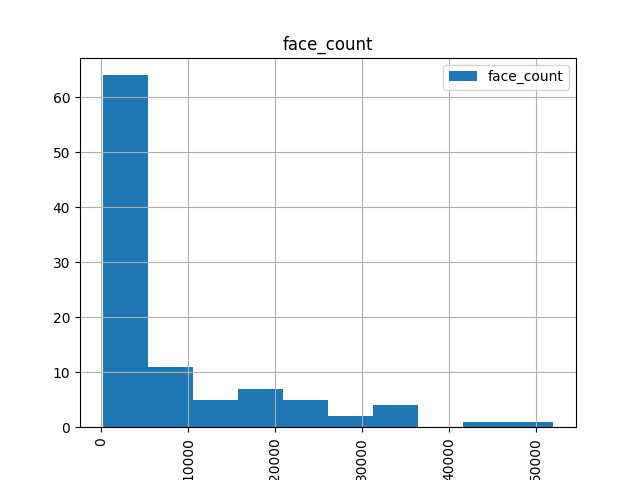
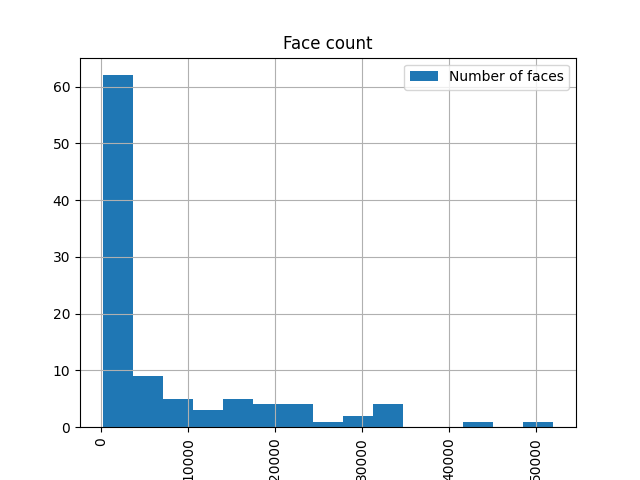
Histograms
Messing around with the histograms to add them to the report.

diff --git a/datacollection.py b/datacollection.py
@@ -5,6 +5,7 @@ from os.path import exists, isfile, isdir
 import numpy as np
 from shape import Shape
 import pandas as pd
+import matplotlib.pyplot as plt
 
 log = getLogger('data_collection')
 
@@ -22,10 +23,19 @@ def visualize_data(output_path: str) -> None:
         log.error('Dataframe has not been instantiated.')
         return
     
-    for c in dataframe.columns:
-        ax = dataframe.hist(column = c,xrot = 90, legend = True)
-        fig = ax[0][0].get_figure()
-        fig.savefig(output_path + "/"+ c + '_hist.png')
+    ax = dataframe.hist(column = 'face_count',xrot = 90, legend = True, bins= 15)
+    axes = ax[0][0]
+    axes.set_title("Face count")
+    axes.legend(['Number of faces'])
+    fig = axes.get_figure()
+    fig.savefig(output_path + "/face_count"+ '_hist.png')
+
+    ax = dataframe.hist(column = 'vertex_count',xrot = 90, legend = True, bins= 15)
+    axes = ax[0][0]
+    axes.set_title("Vertex count")
+    axes.legend(['Number of vertices'])
+    fig = axes.get_figure()
+    fig.savefig(output_path + "/vertex_count" + '_hist.png')
 
     return
 
